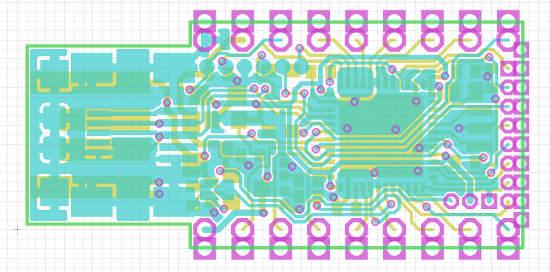
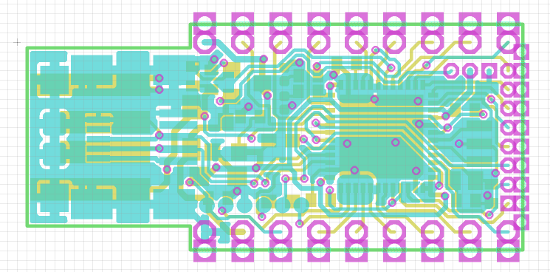
flip board on webpage - to match top view

diff --git a/boards/PICO_R1_2.py b/boards/PICO_R1_2.py
@@ -47,12 +47,11 @@ chip = {
 };
 # left-right, or top-bottom order
 board = {
-  'top' : [ 'GND', '5V', 'VDD', 'B3', 'B4', 'B5', 'B6', 'B7','A8'],
-  'bottom' : [ 'BAT_IN','B15', 'B14', 'B13', 'B10', 'B1', 'A7', 'A6', 'A5' ], 
+  'top' : [ 'BAT_IN','B15', 'B14', 'B13', 'B10', 'B1', 'A7', 'A6', 'A5' ], 
+  'bottom' : [ 'GND', '5V', 'VDD', 'B3', 'B4', 'B5', 'B6', 'B7','A8'],
 
-
-  'bottom2' : ['5V','VDD','GND'],
-  'right' : ['B8','B9','A10','A0','A1','A2','A3','A4'],        
+  'top2' : ['5V','VDD','GND'],
+  'right' : ['A4', 'A3', 'A2', 'A1', 'A0', 'A10', 'B9', 'B8'],
 };
 devices = {
   'OSC' : { 'pin_in' :  'H0', # checked
@@ -97,8 +96,8 @@ board_css = """
   top: 60px;
   left: 540px;
 }
-#bottom2  {
-  bottom: 80px;
+#top2  {
+  top: 80px;
   right: 50px;
 }
 
@@ -106,7 +105,7 @@ board_css = """
 .bottompin { width: 32px; }
 
 .rightpin { height: 17px; }
-.bottom2pin { width: 14px; }
+.top2pin { width: 14px; }
 
 """;
 
